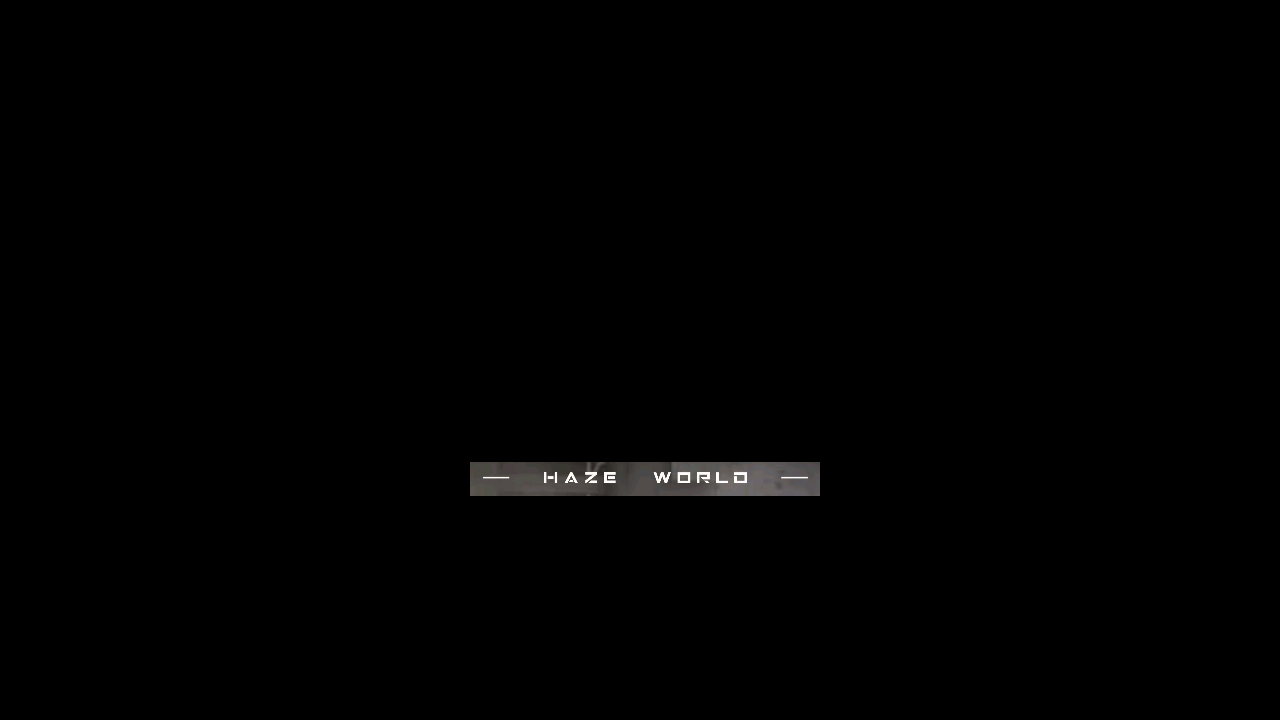
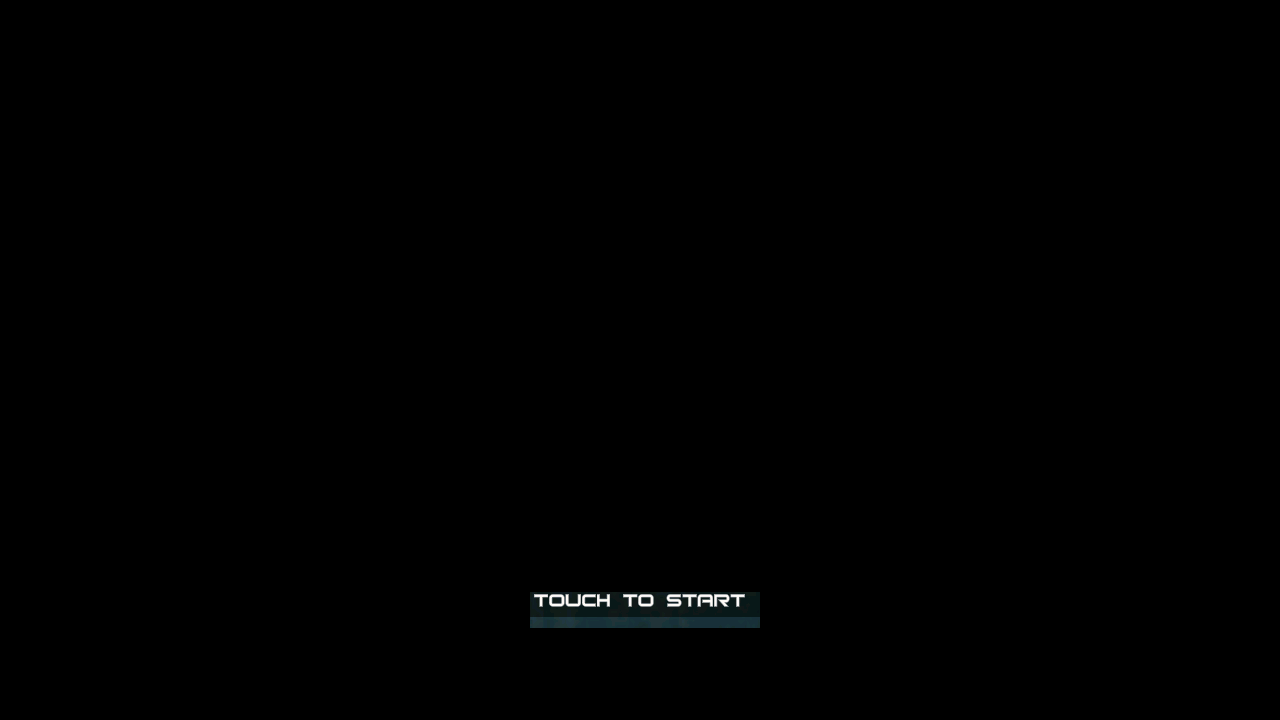
fix(hazeworld): cancel the exit dialog on boot and wait out the tab switch
Boot: the announcement only closes on the back key, but the back key on the
title screen opens the "exit?" dialog, which logs the account out when it is
confirmed. The loop kept sending back + tapping the title, so a stray back
confirmed the dialog and the game dropped to the login screen.
handle_exit_confirm() now runs before the title screen check, the back key is
rate limited to once per 2s and only sent while the announcement is on screen,
and EXIT_CONFIRM points its button at the "cancel" pill so it can never be
confirmed. It is also wired into ui_additional().
LOGIN_TOUCH_START.button pointed at the account icon in the top right, it now
points at the TOUCH TO START bar.

Mission claim: switching tabs happens client side, so the claim button and the
list still show the previous tab for the slide-in animation. Measured 3.3s from
the tab click to the first frame where the button reads as clickable. The old
code read a single frame right after the click, saw the stale grey button and
skipped the whole tab, which is how the weekly rewards were lost.
claim_all() takes a settle window in which the disabled state is not believed,
TASK_CLAIM_SETTLE = 6 for margin, and returns to the plain behaviour after the
first click. Tested with synthetic frames: wait=6 claims, wait=0 reproduces the
old skip.

Changed region(s): [[0.3438, 0.6417, 0.6562, 0.7028], [0.4062, 0.825, 0.5938, 0.8861]]

diff --git a/module/hazeworld/hazeworld_ui.py b/module/hazeworld/hazeworld_ui.py
@@ -1,6 +1,6 @@
 from module.base.timer import Timer
 from module.exception import GameStuckError
-from module.hazeworld.assets import (BACK_ARROW, EX_TITLE_LABEL,
+from module.hazeworld.assets import (BACK_ARROW, EXIT_CONFIRM, EX_TITLE_LABEL,
                                     FRIEND_TAB_LIST, LOGIN_ANNOUNCE,
                                     LOGIN_TOUCH_START, MAIL_BTN_CLAIM_ALL,
                                     MAIN_BTN_EXERCISE, MAIN_ICON_FRIEND,
@@ -95,6 +95,12 @@ class HazeworldUI(UI):
         announcement that has to be dismissed, then the title screen waiting for
         a tap. Loading alone takes about 30 seconds, so the timeout is generous.
 
+        The announcement only closes on the back key, but the back key on the
+        title screen opens the "确认退出?" dialog, which logs the account out on
+        the next launch when it is confirmed. So the key is sent at most once
+        every two seconds and only while the announcement is on screen, and the
+        dialog is cancelled the moment it shows up.
+
         Pages:
             in: any
             out: page_main
@@ -107,6 +113,7 @@ class HazeworldUI(UI):
         """
         logger.hr('App boot', level=2)
         timeout = Timer(240, count=3).start()
+        back = Timer(2)
 
         while 1:
             if skip_first_screenshot:
@@ -121,11 +128,17 @@ class HazeworldUI(UI):
                 logger.info('Game is at page_main')
                 return True
 
+            # Must come before the title screen check, the title stays readable
+            # behind this dialog.
+            if self.handle_exit_confirm():
+                continue
+
             # Announcement is a modal over the title screen, back dismisses it.
             # Only pressed on the positive condition, never on the main page.
             if self.appear(LOGIN_ANNOUNCE, offset=(20, 20)):
-                logger.info('Announcement popup, dismiss it')
-                self.device.adb_shell(['input', 'keyevent', '4'])
+                if back.reached_and_reset():
+                    logger.info('Announcement popup, dismiss it')
+                    self.device.adb_shell(['input', 'keyevent', '4'])
                 continue
 
             if self.appear_then_click(LOGIN_TOUCH_START, offset=(20, 20), interval=3):
@@ -135,6 +148,27 @@ class HazeworldUI(UI):
             if timeout.reached():
                 logger.warning('Wait game boot timeout')
                 raise GameStuckError('Game did not reach page_main after launch')
+
+    def handle_exit_confirm(self):
+        """
+        Cancel the "确认退出?" dialog, which the back key opens.
+
+        Confirming it quits the game and the next launch asks for the account
+        again, so only "取消" is ever clicked.
+
+        Pages:
+            in: any
+            out: any
+
+        Returns:
+            bool: If handled.
+        """
+        if self.appear(EXIT_CONFIRM, offset=(20, 20)):
+            logger.info('Exit confirm dialog, cancel it')
+            self.device.click(EXIT_CONFIRM)
+            return True
+
+        return False
 
     def handle_reward(self):
         """
@@ -161,9 +195,11 @@ class HazeworldUI(UI):
         Returns:
             bool: If handled.
         """
+        if self.handle_exit_confirm():
+            return True
         return self.handle_reward()
 
-    def claim_all(self, claim, disabled=None, max_click=20, skip_first_screenshot=True):
+    def claim_all(self, claim, disabled=None, max_click=20, wait=0, skip_first_screenshot=True):
         """
         Click the "claim all" button until there is nothing left to claim.
 
@@ -172,12 +208,20 @@ class HazeworldUI(UI):
             disabled (Button): The same button in disabled state, used as the
                 positive exit condition. None to exit when `claim` disappears.
             max_click (int): Safety limit, to avoid clicking forever.
+            wait (int, float): Seconds to keep looking for `claim` before the
+                disabled state is accepted. Needed after a tab switch, see
+                `HazeworldTask`.
             skip_first_screenshot (bool):
 
         Returns:
             int: Times clicked.
         """
         count = 0
+        # Just after a tab switch the button still shows the previous tab, so a
+        # disabled button is only believed after `wait` seconds without the
+        # clickable one showing up. Zero keeps the plain behaviour.
+        settle = Timer(wait).start() if wait else None
+
         while 1:
             if skip_first_screenshot:
                 skip_first_screenshot = False
@@ -188,6 +232,8 @@ class HazeworldUI(UI):
                 continue
 
             if disabled is not None and self.appear(disabled, offset=None):
+                if settle is not None and not settle.reached():
+                    continue
                 logger.info('Nothing left to claim')
                 break
 
@@ -198,6 +244,9 @@ class HazeworldUI(UI):
                 logger.info(f'Claim all ({count + 1})')
                 self.device.click(claim)
                 count += 1
+                # The page is obviously the right one now, no need to wait for
+                # the disabled state any more.
+                settle = None
                 continue
 
             break

diff --git a/module/hazeworld/assets.py b/module/hazeworld/assets.py
@@ -5,6 +5,7 @@ from module.base.template import Template
 # Don't modify it manually.
 
 BACK_ARROW = Button(area={'hazeworld': (12, 18, 40, 52)}, color={'hazeworld': (48, 49, 47)}, button={'hazeworld': (12, 18, 40, 52)}, file={'hazeworld': './assets/hazeworld/hazeworld/BACK_ARROW.png'})
+EXIT_CONFIRM = Button(area={'hazeworld': (585, 292, 695, 325)}, color={'hazeworld': (227, 227, 227)}, button={'hazeworld': (478, 373, 637, 432)}, file={'hazeworld': './assets/hazeworld/hazeworld/EXIT_CONFIRM.png'})
 EX_BTN_BATTLE_DONE = Button(area={'hazeworld': (980, 649, 1073, 669)}, color={'hazeworld': (123, 69, 26)}, button={'hazeworld': (814, 634, 1240, 684)}, file={'hazeworld': './assets/hazeworld/hazeworld/EX_BTN_BATTLE_DONE.png'})
 EX_BTN_BATTLE_READY = Button(area={'hazeworld': (1030, 649, 1123, 670)}, color={'hazeworld': (127, 72, 22)}, button={'hazeworld': (993, 634, 1251, 684)}, file={'hazeworld': './assets/hazeworld/hazeworld/EX_BTN_BATTLE_READY.png'})
 EX_BTN_PROXY = Button(area={'hazeworld': (839, 649, 928, 668)}, color={'hazeworld': (129, 130, 128)}, button={'hazeworld': (820, 638, 950, 680)}, file={'hazeworld': './assets/hazeworld/hazeworld/EX_BTN_PROXY.png'})
@@ -20,7 +21,7 @@ EX_TITLE_LABEL = Button(area={'hazeworld': (229, 14, 382, 53)}, color={'hazeworl
 FRIEND_LIKE_ALL = Button(area={'hazeworld': (68, 620, 217, 667)}, color={'hazeworld': (50, 52, 46)}, button={'hazeworld': (68, 620, 217, 667)}, file={'hazeworld': './assets/hazeworld/hazeworld/FRIEND_LIKE_ALL.png'})
 FRIEND_TAB_LIST = Button(area={'hazeworld': (61, 130, 274, 193)}, color={'hazeworld': (54, 56, 52)}, button={'hazeworld': (61, 130, 274, 193)}, file={'hazeworld': './assets/hazeworld/hazeworld/FRIEND_TAB_LIST.png'})
 LOGIN_ANNOUNCE = Button(area={'hazeworld': (100, 55, 350, 100)}, color={'hazeworld': (44, 46, 42)}, button={'hazeworld': (100, 55, 350, 100)}, file={'hazeworld': './assets/hazeworld/hazeworld/LOGIN_ANNOUNCE.png'})
-LOGIN_TOUCH_START = Button(area={'hazeworld': (525, 588, 775, 612)}, color={'hazeworld': (93, 90, 89)}, button={'hazeworld': (470, 462, 820, 496)}, file={'hazeworld': './assets/hazeworld/hazeworld/LOGIN_TOUCH_START.png'})
+LOGIN_TOUCH_START = Button(area={'hazeworld': (525, 588, 775, 612)}, color={'hazeworld': (93, 90, 89)}, button={'hazeworld': (530, 592, 760, 628)}, file={'hazeworld': './assets/hazeworld/hazeworld/LOGIN_TOUCH_START.png'})
 MAIL_BTN_CLAIM = Button(area={'hazeworld': (1023, 628, 1177, 670)}, color={'hazeworld': (203, 118, 44)}, button={'hazeworld': (1023, 628, 1177, 670)}, file={'hazeworld': './assets/hazeworld/hazeworld/MAIL_BTN_CLAIM.png'})
 MAIL_BTN_CLAIM_ALL = Button(area={'hazeworld': (294, 645, 382, 670)}, color={'hazeworld': (93, 94, 91)}, button={'hazeworld': (294, 645, 382, 670)}, file={'hazeworld': './assets/hazeworld/hazeworld/MAIL_BTN_CLAIM_ALL.png'})
 MAIN_BTN_EXERCISE = Button(area={'hazeworld': (1022, 566, 1175, 613)}, color={'hazeworld': (117, 151, 225)}, button={'hazeworld': (1022, 563, 1263, 613)}, file={'hazeworld': './assets/hazeworld/hazeworld/MAIN_BTN_EXERCISE.png'})

diff --git a/module/hazeworld/task.py b/module/hazeworld/task.py
@@ -5,6 +5,15 @@ from module.hazeworld.assets import (TASK_CLAIM_ALL,
 from module.hazeworld.hazeworld_ui import HazeworldUI, page_task
 from module.logger import logger
 
+# The tab switch is client side, but the claim button and the mission list keep
+# the previous tab's state until the slide-in animation finishes, and the button
+# fades in, so it only turns orange on the last frames. Measured on a real
+# weekly tab: 3.3s from the tab click to the first frame where the button reads
+# as clickable. A tab with nothing to claim looks exactly like that stale frame,
+# so the disabled button is only believed after this many seconds without the
+# clickable one showing up.
+TASK_CLAIM_SETTLE = 6
+
 
 class HazeworldTask(HazeworldUI):
     """
@@ -40,7 +49,10 @@ class HazeworldTask(HazeworldUI):
         Switch to a mission tab and claim everything on it.
 
         The claim button is orange when there is something to claim and grey
-        when there is not, so the disabled state is used as the exit condition.
+        when there is not, so the disabled state is the exit condition. It is
+        read with a settle window: switching tabs on a grey button leaves it
+        grey, so an early read reports "nothing to claim" for the tab that was
+        just opened and skips its rewards (the weekly tab was lost this way).
 
         Args:
             tab (Button): Tab button of the mission page.
@@ -49,16 +61,19 @@ class HazeworldTask(HazeworldUI):
         Pages:
             in: page_task
             out: page_task
+
+        Returns:
+            int: Times claimed.
         """
         logger.hr(f'Claim {tab.name}', level=2)
         self.interval_clear(tab)
 
-        # Switch tab, then claim. Switching is client side and instant, the
-        # claim loop takes a fresh screenshot before its first decision.
         self.device.click(tab)
-        self.claim_all(
+        count = self.claim_all(
             TASK_CLAIM_ALL,
             disabled=TASK_CLAIM_ALL_DISABLED,
+            wait=TASK_CLAIM_SETTLE,
             skip_first_screenshot=False,
         )
         self.interval_clear(TASK_CLAIM_ALL)
+        return count
